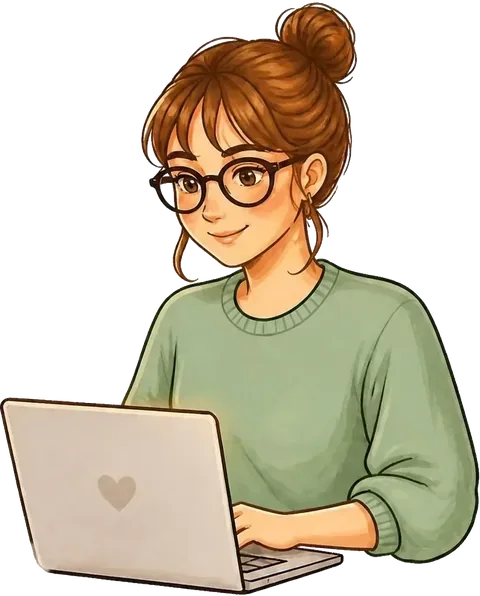
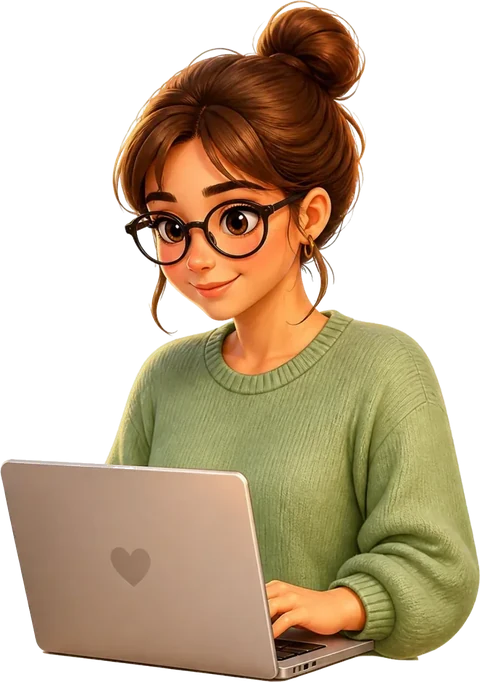
ilustraciones nuevas

diff --git a/index.html b/index.html
@@ -158,7 +158,7 @@ img{max-width:100%}
 <link rel="preload" href="/fonts/JetBrainsMono-latin.woff2" as="font" type="font/woff2" crossorigin>
 <link rel="preload" href="/fonts/BricolageGrotesque-latin.woff2" as="font" type="font/woff2" crossorigin>
 <style>@font-face { font-family: 'Bricolage Grotesque'; font-style: normal; font-weight: 400; font-stretch: 100%; font-display: swap; src: url(/fonts/BricolageGrotesque-latin-ext.woff2) format('woff2'); unicode-range: U+0100-02BA, U+02BD-02C5, U+02C7-02CC, U+02CE-02D7, U+02DD-02FF, U+0304, U+0308, U+0329, U+1D00-1DBF, U+1E00-1E9F, U+1EF2-1EFF, U+2020, U+20A0-20AB, U+20AD-20C0, U+2113, U+2C60-2C7F, U+A720-A7FF; } @font-face { font-family: 'Bricolage Grotesque'; font-style: normal; font-weight: 400; font-stretch: 100%; font-display: swap; src: url(/fonts/BricolageGrotesque-latin.woff2) format('woff2'); unicode-range: U+0000-00FF, U+0131, U+0152-0153, U+02BB-02BC, U+02C6, U+02DA, U+02DC, U+0304, U+0308, U+0329, U+2000-206F, U+20AC, U+2122, U+2191, U+2193, U+2212, U+2215, U+FEFF, U+FFFD; } @font-face { font-family: 'Bricolage Grotesque'; font-style: normal; font-weight: 600; font-stretch: 100%; font-display: swap; src: url(/fonts/BricolageGrotesque-latin-ext.woff2) format('woff2'); unicode-range: U+0100-02BA, U+02BD-02C5, U+02C7-02CC, U+02CE-02D7, U+02DD-02FF, U+0304, U+0308, U+0329, U+1D00-1DBF, U+1E00-1E9F, U+1EF2-1EFF, U+2020, U+20A0-20AB, U+20AD-20C0, U+2113, U+2C60-2C7F, U+A720-A7FF; } @font-face { font-family: 'Bricolage Grotesque'; font-style: normal; font-weight: 600; font-stretch: 100%; font-display: swap; src: url(/fonts/BricolageGrotesque-latin.woff2) format('woff2'); unicode-range: U+0000-00FF, U+0131, U+0152-0153, U+02BB-02BC, U+02C6, U+02DA, U+02DC, U+0304, U+0308, U+0329, U+2000-206F, U+20AC, U+2122, U+2191, U+2193, U+2212, U+2215, U+FEFF, U+FFFD; } @font-face { font-family: 'Bricolage Grotesque'; font-style: normal; font-weight: 800; font-stretch: 100%; font-display: swap; src: url(/fonts/BricolageGrotesque-latin-ext.woff2) format('woff2'); unicode-range: U+0100-02BA, U+02BD-02C5, U+02C7-02CC, U+02CE-02D7, U+02DD-02FF, U+0304, U+0308, U+0329, U+1D00-1DBF, U+1E00-1E9F, U+1EF2-1EFF, U+2020, U+20A0-20AB, U+20AD-20C0, U+2113, U+2C60-2C7F, U+A720-A7FF; } @font-face { font-family: 'Bricolage Grotesque'; font-style: normal; font-weight: 800; font-stretch: 100%; font-display: swap; src: url(/fonts/BricolageGrotesque-latin.woff2) format('woff2'); unicode-range: U+0000-00FF, U+0131, U+0152-0153, U+02BB-02BC, U+02C6, U+02DA, U+02DC, U+0304, U+0308, U+0329, U+2000-206F, U+20AC, U+2122, U+2191, U+2193, U+2212, U+2215, U+FEFF, U+FFFD; } @font-face { font-family: 'Figtree'; font-style: normal; font-weight: 400; font-display: swap; src: url(/fonts/Figtree-latin-ext.woff2) format('woff2'); unicode-range: U+0100-02BA, U+02BD-02C5, U+02C7-02CC, U+02CE-02D7, U+02DD-02FF, U+0304, U+0308, U+0329, U+1D00-1DBF, U+1E00-1E9F, U+1EF2-1EFF, U+2020, U+20A0-20AB, U+20AD-20C0, U+2113, U+2C60-2C7F, U+A720-A7FF; } @font-face { font-family: 'Figtree'; font-style: normal; font-weight: 400; font-display: swap; src: url(/fonts/Figtree-latin.woff2) format('woff2'); unicode-range: U+0000-00FF, U+0131, U+0152-0153, U+02BB-02BC, U+02C6, U+02DA, U+02DC, U+0304, U+0308, U+0329, U+2000-206F, U+20AC, U+2122, U+2191, U+2193, U+2212, U+2215, U+FEFF, U+FFFD; } @font-face { font-family: 'Figtree'; font-style: normal; font-weight: 500; font-display: swap; src: url(/fonts/Figtree-latin-ext.woff2) format('woff2'); unicode-range: U+0100-02BA, U+02BD-02C5, U+02C7-02CC, U+02CE-02D7, U+02DD-02FF, U+0304, U+0308, U+0329, U+1D00-1DBF, U+1E00-1E9F, U+1EF2-1EFF, U+2020, U+20A0-20AB, U+20AD-20C0, U+2113, U+2C60-2C7F, U+A720-A7FF; } @font-face { font-family: 'Figtree'; font-style: normal; font-weight: 500; font-display: swap; src: url(/fonts/Figtree-latin.woff2) format('woff2'); unicode-range: U+0000-00FF, U+0131, U+0152-0153, U+02BB-02BC, U+02C6, U+02DA, U+02DC, U+0304, U+0308, U+0329, U+2000-206F, U+20AC, U+2122, U+2191, U+2193, U+2212, U+2215, U+FEFF, U+FFFD; } @font-face { font-family: 'Figtree'; font-style: normal; font-weight: 600; font-display: swap; src: url(/fonts/Figtree-latin-ext.woff2) format('woff2'); unicode-range: U+0100-02BA, U+02BD-02C5, U+02C7-02CC, U+02CE-02D7, U+02DD-02FF, U+0304, U+0308, U+0329, U+1D00-1DBF, U+1E00-1E9F, U+1EF2-1EFF, U+2020, U+20A0-20AB, U+20AD-20C0, U+2113, U+2C60-2C7F, U+A720-A7FF; } @font-face { font-family: 'Figtree'; font-style: normal; font-weight: 600; font-display: swap; src: url(/fonts/Figtree-latin.woff2) format('woff2'); unicode-range: U+0000-00FF, U+0131, U+0152-0153, U+02BB-02BC, U+02C6, U+02DA, U+02DC, U+0304, U+0308, U+0329, U+2000-206F, U+20AC, U+2122, U+2191, U+2193, U+2212, U+2215, U+FEFF, U+FFFD; } @font-face { font-family: 'JetBrains Mono'; font-style: normal; font-weight: 400; font-display: swap; src: url(/fonts/JetBrainsMono-latin-ext.woff2) format('woff2'); unicode-range: U+0100-02BA, U+02BD-02C5, U+02C7-02CC, U+02CE-02D7, U+02DD-02FF, U+0304, U+0308, U+0329, U+1D00-1DBF, U+1E00-1E9F, U+1EF2-1EFF, U+2020, U+20A0-20AB, U+20AD-20C0, U+2113, U+2C60-2C7F, U+A720-A7FF; } @font-face { font-family: 'JetBrains Mono'; font-style: normal; font-weight: 400; font-display: swap; src: url(/fonts/JetBrainsMono-latin.woff2) format('woff2'); unicode-range: U+0000-00FF, U+0131, U+0152-0153, U+02BB-02BC, U+02C6, U+02DA, U+02DC, U+0304, U+0308, U+0329, U+2000-206F, U+20AC, U+2122, U+2191, U+2193, U+2212, U+2215, U+FEFF, U+FFFD; } @font-face { font-family: 'JetBrains Mono'; font-style: normal; font-weight: 500; font-display: swap; src: url(/fonts/JetBrainsMono-latin-ext.woff2) format('woff2'); unicode-range: U+0100-02BA, U+02BD-02C5, U+02C7-02CC, U+02CE-02D7, U+02DD-02FF, U+0304, U+0308, U+0329, U+1D00-1DBF, U+1E00-1E9F, U+1EF2-1EFF, U+2020, U+20A0-20AB, U+20AD-20C0, U+2113, U+2C60-2C7F, U+A720-A7FF; } @font-face { font-family: 'JetBrains Mono'; font-style: normal; font-weight: 500; font-display: swap; src: url(/fonts/JetBrainsMono-latin.woff2) format('woff2'); unicode-range: U+0000-00FF, U+0131, U+0152-0153, U+02BB-02BC, U+02C6, U+02DA, U+02DC, U+0304, U+0308, U+0329, U+2000-206F, U+20AC, U+2122, U+2191, U+2193, U+2212, U+2215, U+FEFF, U+FFFD; } @font-face { font-family: 'Space Mono'; font-style: normal; font-weight: 400; font-display: swap; src: url(/fonts/SpaceMono-400-latin-ext.woff2) format('woff2'); unicode-range: U+0100-02BA, U+02BD-02C5, U+02C7-02CC, U+02CE-02D7, U+02DD-02FF, U+0304, U+0308, U+0329, U+1D00-1DBF, U+1E00-1E9F, U+1EF2-1EFF, U+2020, U+20A0-20AB, U+20AD-20C0, U+2113, U+2C60-2C7F, U+A720-A7FF; } @font-face { font-family: 'Space Mono'; font-style: normal; font-weight: 400; font-display: swap; src: url(/fonts/SpaceMono-400-latin.woff2) format('woff2'); unicode-range: U+0000-00FF, U+0131, U+0152-0153, U+02BB-02BC, U+02C6, U+02DA, U+02DC, U+0304, U+0308, U+0329, U+2000-206F, U+20AC, U+2122, U+2191, U+2193, U+2212, U+2215, U+FEFF, U+FFFD; } @font-face { font-family: 'Space Mono'; font-style: normal; font-weight: 700; font-display: swap; src: url(/fonts/SpaceMono-700-latin-ext.woff2) format('woff2'); unicode-range: U+0100-02BA, U+02BD-02C5, U+02C7-02CC, U+02CE-02D7, U+02DD-02FF, U+0304, U+0308, U+0329, U+1D00-1DBF, U+1E00-1E9F, U+1EF2-1EFF, U+2020, U+20A0-20AB, U+20AD-20C0, U+2113, U+2C60-2C7F, U+A720-A7FF; } @font-face { font-family: 'Space Mono'; font-style: normal; font-weight: 700; font-display: swap; src: url(/fonts/SpaceMono-700-latin.woff2) format('woff2'); unicode-range: U+0000-00FF, U+0131, U+0152-0153, U+02BB-02BC, U+02C6, U+02DA, U+02DC, U+0304, U+0308, U+0329, U+2000-206F, U+20AC, U+2122, U+2191, U+2193, U+2212, U+2215, U+FEFF, U+FFFD; }</style>
-<link rel="preload" as="image" href="/img/chica-portatil.webp" imagesrcset="/img/chica-portatil-480.webp 480w, /img/chica-portatil.webp 820w" imagesizes="(max-width:900px) 280px, 420px" fetchpriority="high">
+<link rel="preload" as="image" href="/img/chica-portatil.webp" imagesrcset="/img/chica-portatil-480.webp 480w, /img/chica-portatil.webp 662w" imagesizes="(max-width:900px) 280px, 420px" fetchpriority="high">
 <style>
 :root{
   --bg:#F7F2EB; --surface:#FFFDFA; --ink:#43352C; --muted:#7A6455; --line:#E8DDD0; --hire:#4A6644; --muted-on-sage:#5E4A3C; --deep-on-sage:#4A6644;
@@ -645,7 +645,7 @@ footer{border-top:0; background:var(--sage); box-shadow:0 0 0 100vmax var(--sage
       </div>
     </div>
 
-    <img class="hero-chica" src="/img/chica-portatil.webp" srcset="/img/chica-portatil-480.webp 480w, /img/chica-portatil.webp 820w" sizes="(max-width:900px) 280px, 420px" fetchpriority="high" alt="Ilustración de Claudia programando con su portátil" width="820" height="1019">
+    <img class="hero-chica" src="/img/chica-portatil.webp" srcset="/img/chica-portatil-480.webp 480w, /img/chica-portatil.webp 662w" sizes="(max-width:900px) 280px, 420px" fetchpriority="high" alt="Ilustración de Claudia programando con su portátil" width="662" height="941">
   </header>
 
   <section id="servicios">
@@ -902,7 +902,7 @@ async function opinionesBooksy() {
 
   <section class="contact" id="contacto">
     <div>
-      <img class="contact-logo" src="/img/chica-senalando.webp" alt="Ilustración de Claudia señalando el formulario de contacto" width="700" height="750" loading="lazy">
+      <img class="contact-logo" src="/img/chica-senalando.webp" alt="Ilustración de Claudia señalando el formulario de contacto" width="798" height="937" loading="lazy">
       <h2>¿Hacemos tu web?</h2>
       <p>Escríbeme contándome a qué se dedica tu negocio y qué te gustaría tener. Te respondo en menos de 24 horas con una propuesta.</p>
     </div>

diff --git a/diseno-web-peluquerias.html b/diseno-web-peluquerias.html
@@ -138,7 +138,7 @@
     <p class="lead">Diseño webs para salones de belleza de Pamplona y Navarra que reservan, venden tarjetas regalo y enseñan tus mejores trabajos. Como la de Laksmir Beauty Salon.</p>
     <div class="ctas"><a class="btn dark" href="https://wa.me/34655397379?text=Hola%20Claudia%2C%20he%20visto%20tu%20p%C3%A1gina%20de%20webs%20para%20peluquer%C3%ADas%20y%20est%C3%A9tica%20y%20me%20gustar%C3%ADa%20pedir%20presupuesto." target="_blank" rel="noopener">Pide tu presupuesto por WhatsApp</a><a class="btn ghost" href="/#proyecto">Ver proyecto real</a></div>
   </div>
-  <img class="hero-img" src="/img/chica-portatil.webp" srcset="/img/chica-portatil-480.webp 480w, /img/chica-portatil.webp 820w" sizes="(max-width:860px) 240px, 360px" alt="Ilustración de Claudia diseñando la web de una peluquería en su portátil" width="820" height="1019" fetchpriority="high">
+  <img class="hero-img" src="/img/chica-portatil.webp" srcset="/img/chica-portatil-480.webp 480w, /img/chica-portatil.webp 662w" sizes="(max-width:860px) 240px, 360px" alt="Ilustración de Claudia diseñando la web de una peluquería en su portátil" width="662" height="941" fetchpriority="high">
 </section>
 
 <section class="band">
@@ -179,7 +179,7 @@
   <details><summary>¿Puedo seguir usando Booksy?</summary><p>Sí. Tu web enlaza cada servicio con su cita en Booksy, así sigues gestionando tu agenda como siempre. Si usas otro sistema de reservas, también se puede conectar.</p></details><details><summary>¿Puedo vender tarjetas regalo desde la web?</summary><p>Sí. Tus clientas eligen un importe o un servicio, lo pagan online y reciben la tarjeta para regalar. Es ideal para Navidad, San Valentín y el Día de la Madre.</p></details><details><summary>¿Podré cambiar los precios y las fotos sin ayuda?</summary><p>Sí. Te preparo un panel sencillo para cambiar servicios, precios, fotos de la galería y entradas del blog, y te enseño a usarlo.</p></details><details><summary>¿Salen mis reseñas de Google y de Booksy?</summary><p>Sí. Tu nota y tu número de opiniones aparecen en la web y se actualizan solos cada día.</p></details><details><summary>¿Cuánto cuesta la web de una peluquería?</summary><p>Depende de lo que necesites: una web sencilla o una con reservas y panel de gestión, que es lo que elige la mayoría de salones. Tras una primera charla gratuita te doy un presupuesto cerrado y sin compromiso.</p></details>
 </section>
 <section class="cta">
-  <img src="/img/chica-senalando.webp" alt="" width="700" height="750" loading="lazy">
+  <img src="/img/chica-senalando.webp" alt="" width="798" height="937" loading="lazy">
   <div>
     <h2>¿Hablamos de tu web?</h2>
     <p>Cuéntame qué hace tu negocio y qué necesitas. La primera charla es gratis y sin compromiso.</p>

diff --git a/diseno-web-pamplona.html b/diseno-web-pamplona.html
@@ -134,7 +134,7 @@
     <p class="lead">Soy Claudia, diseñadora y desarrolladora web en Burlada. Creo páginas web a medida para negocios de Pamplona y alrededores: rápidas, bonitas en el móvil y preparadas para que te encuentren en Google.</p>
     <div class="ctas"><a class="btn dark" href="https://wa.me/34655397379?text=Hola%20Claudia%2C%20he%20visto%20tu%20p%C3%A1gina%20de%20dise%C3%B1o%20web%20en%20pamplona%20y%20me%20gustar%C3%ADa%20pedir%20presupuesto." target="_blank" rel="noopener">Pide tu presupuesto por WhatsApp</a><a class="btn ghost" href="/#proyecto">Ver proyecto real</a></div>
   </div>
-  <img class="hero-img" src="/img/chica-portatil.webp" srcset="/img/chica-portatil-480.webp 480w, /img/chica-portatil.webp 820w" sizes="(max-width:860px) 240px, 360px" alt="Ilustración de Claudia, diseñadora web en Pamplona, trabajando con su portátil" width="820" height="1019" fetchpriority="high">
+  <img class="hero-img" src="/img/chica-portatil.webp" srcset="/img/chica-portatil-480.webp 480w, /img/chica-portatil.webp 662w" sizes="(max-width:860px) 240px, 360px" alt="Ilustración de Claudia, diseñadora web en Pamplona, trabajando con su portátil" width="662" height="941" fetchpriority="high">
 </section>
 
 <section class="band">
@@ -174,7 +174,7 @@
   <details><summary>¿Nos podemos ver en persona?</summary><p>Sí. Estoy en Burlada y me desplazo a Pamplona y alrededores para la primera reunión o cuando haga falta. Si lo prefieres, también podemos hacerlo todo por videollamada.</p></details><details><summary>¿Cuánto cuesta una página web en Pamplona?</summary><p>Depende de lo que necesites: una web esencial, una web con reservas y panel de gestión o una tienda online. Tras una primera charla gratuita te doy un presupuesto cerrado y sin compromiso.</p></details><details><summary>¿Me ayudas a salir en Google y en Google Maps?</summary><p>Sí. Preparo la web para el SEO local de Pamplona y Navarra y te ayudo a configurar tu Perfil de Empresa en Google para que aparezcas en el mapa.</p></details><details><summary>¿Trabajas con negocios fuera de Pamplona?</summary><p>Sí, con negocios de toda Navarra y de cualquier parte de España. Fuera de la comarca trabajamos por videollamada.</p></details><details><summary>¿Cuánto tarda en estar lista mi web?</summary><p>Una web esencial suele estar en 2 o 3 semanas. Una tienda online, entre 4 y 6, según el número de productos.</p></details>
 </section>
 <section class="cta">
-  <img src="/img/chica-senalando.webp" alt="" width="700" height="750" loading="lazy">
+  <img src="/img/chica-senalando.webp" alt="" width="798" height="937" loading="lazy">
   <div>
     <h2>¿Hablamos de tu web?</h2>
     <p>Cuéntame qué hace tu negocio y qué necesitas. La primera charla es gratis y sin compromiso.</p>

diff --git a/tiendas-online-navarra.html b/tiendas-online-navarra.html
@@ -134,7 +134,7 @@
     <p class="lead">Vende tus productos, bonos y tarjetas regalo desde tu propia web, con pago seguro y un panel sencillo para gestionar pedidos. Sin plantillas genéricas y sin cuotas de plataforma.</p>
     <div class="ctas"><a class="btn dark" href="https://wa.me/34655397379?text=Hola%20Claudia%2C%20he%20visto%20tu%20p%C3%A1gina%20de%20tiendas%20online%20en%20navarra%20y%20me%20gustar%C3%ADa%20pedir%20presupuesto." target="_blank" rel="noopener">Pide tu presupuesto por WhatsApp</a><a class="btn ghost" href="/#proyecto">Ver proyecto real</a></div>
   </div>
-  <img class="hero-img" src="/img/chica-portatil.webp" srcset="/img/chica-portatil-480.webp 480w, /img/chica-portatil.webp 820w" sizes="(max-width:860px) 240px, 360px" alt="Ilustración de Claudia creando una tienda online en su portátil" width="820" height="1019" fetchpriority="high">
+  <img class="hero-img" src="/img/chica-portatil.webp" srcset="/img/chica-portatil-480.webp 480w, /img/chica-portatil.webp 662w" sizes="(max-width:860px) 240px, 360px" alt="Ilustración de Claudia creando una tienda online en su portátil" width="662" height="941" fetchpriority="high">
 </section>
 
 <section class="band">
@@ -173,7 +173,7 @@
   <details><summary>¿Qué formas de pago puede tener mi tienda?</summary><p>Pago con tarjeta mediante una pasarela segura (como Stripe o la de tu banco). Si tu banco lo ofrece, también se puede añadir Bizum.</p></details><details><summary>¿Podré añadir productos y ver los pedidos sin ayuda?</summary><p>Sí. Desde el panel añades y editas productos, cambias precios y revisas los pedidos, sin tocar código.</p></details><details><summary>¿Cuánto cuesta mantener una tienda online?</summary><p>El alojamiento y el dominio, que suelen ser unos pocos euros al mes, y la comisión de la pasarela de pago por cada venta. Si quieres, también puedo encargarme del mantenimiento con una cuota mensual opcional.</p></details><details><summary>Ya vendo por Instagram, ¿me sirve una tienda online?</summary><p>Sí. Instagram te da visibilidad y la tienda cierra la venta: tus seguidores compran con un clic desde tu perfil, sin mensajes ni transferencias.</p></details><details><summary>¿Cuánto tarda en estar lista?</summary><p>Entre 4 y 6 semanas, según el número de productos y lo rápido que tengamos fotos y textos.</p></details>
 </section>
 <section class="cta">
-  <img src="/img/chica-senalando.webp" alt="" width="700" height="750" loading="lazy">
+  <img src="/img/chica-senalando.webp" alt="" width="798" height="937" loading="lazy">
   <div>
     <h2>¿Hablamos de tu web?</h2>
     <p>Cuéntame qué hace tu negocio y qué necesitas. La primera charla es gratis y sin compromiso.</p>

diff --git a/blog/cuanto-cuesta-una-pagina-web-en-pamplona.html b/blog/cuanto-cuesta-una-pagina-web-en-pamplona.html
@@ -193,13 +193,13 @@
 <details><summary>¿Cuánto cuesta una web sencilla para un negocio en Pamplona?</summary><p>Con una profesional freelance, una web sencilla de unas 5 páginas suele costar entre 400 y 1.200 € + IVA. Con una agencia, lo habitual es que empiece por encima de los 1.500 €.</p></details><details><summary>¿Cuánto cuesta una tienda online?</summary><p>Una tienda online a medida suele moverse entre 1.500 y 6.000 €, según el número de productos, los métodos de pago y los envíos. A eso hay que sumar el alojamiento y la comisión de la pasarela de pago.</p></details><details><summary>¿Qué gastos tiene una web después de publicarla?</summary><p>El dominio (unos 10–20 € al año), el alojamiento (de 0 a 20 € al mes según la web) y, si lo contratas, el mantenimiento (de 30 a 100 € al mes).</p></details><details><summary>¿Es mejor Wix o una web a medida?</summary><p>Wix o Squarespace son una buena opción si quieres hacerla tú y no te importa la cuota mensual. Una web a medida tiene un diseño único, carga más rápido y no depende de una plataforma, pero tiene un coste inicial mayor.</p></details>
 
 <div class="author">
-  <img src="/img/chica-portatil.webp" srcset="/img/chica-portatil-480.webp 480w, /img/chica-portatil.webp 820w" sizes="64px" alt="" width="820" height="1019" loading="lazy">
+  <img src="/img/chica-portatil.webp" srcset="/img/chica-portatil-480.webp 480w, /img/chica-portatil.webp 662w" sizes="64px" alt="" width="662" height="941" loading="lazy">
   <div><strong>Claudia Ibáñez</strong><p>Frontend developer en Burlada (Navarra). Diseño y programo webs a medida para negocios de Pamplona y toda Navarra.</p></div>
 </div>
 </article>
 
 <section class="cta">
-  <img src="/img/chica-senalando.webp" alt="" width="700" height="750" loading="lazy">
+  <img src="/img/chica-senalando.webp" alt="" width="798" height="937" loading="lazy">
   <div>
     <h2>¿Quieres saber cuánto costaría la tuya?</h2>
     <p>Cuéntame qué necesitas y te preparo un presupuesto cerrado y sin compromiso.</p>

diff --git a/blog/kit-digital-navarra-2026.html b/blog/kit-digital-navarra-2026.html
@@ -165,12 +165,12 @@
 <h2>Preguntas frecuentes</h2>
 <details><summary>¿Puedo pedir el Kit Digital en 2026?</summary><p>No. Las convocatorias del Kit Digital han finalizado y, a día de hoy, no hay ninguna nueva anunciada. Si se abriera otra, se publicaría en acelerapyme.gob.es.</p></details><details><summary>¿Qué ayudas hay en Navarra para digitalizar mi negocio?</summary><p>En 2026 está abierta la convocatoria de ayudas para el fomento de la empresa digital del Gobierno de Navarra, con plazo hasta el 6 de noviembre de 2026 y un gasto mínimo de 5.000 € para proyectos de implantación de soluciones digitales.</p></details><details><summary>¿Pueden pedir estas ayudas los autónomos?</summary><p>Sí. Las ayudas de fomento de la empresa digital de Navarra incluyen a autónomos con establecimiento en Navarra y de alta en el IAE.</p></details><details><summary>¿Me pagan la web entera?</summary><p>No. Las ayudas de Navarra cubren un porcentaje del gasto (entre el 35 % y el 45 % en los proyectos de implantación) y exigen un gasto mínimo. El resto lo paga el negocio.</p></details>
 <div class="author">
-  <img src="/img/chica-portatil.webp" srcset="/img/chica-portatil-480.webp 480w, /img/chica-portatil.webp 820w" sizes="64px" alt="" width="820" height="1019" loading="lazy">
+  <img src="/img/chica-portatil.webp" srcset="/img/chica-portatil-480.webp 480w, /img/chica-portatil.webp 662w" sizes="64px" alt="" width="662" height="941" loading="lazy">
   <div><strong>Claudia Ibáñez</strong><p>Frontend developer en Burlada (Navarra). Diseño y programo webs a medida para negocios de Pamplona y toda Navarra.</p></div>
 </div>
 </article>
 <section class="cta">
-  <img src="/img/chica-senalando.webp" alt="" width="700" height="750" loading="lazy">
+  <img src="/img/chica-senalando.webp" alt="" width="798" height="937" loading="lazy">
   <div>
     <h2>¿Quieres saber si tu proyecto encaja?</h2>
     <p>Cuéntame qué necesitas y te ayudo a ver las opciones, con ayuda o sin ella.</p>

diff --git a/blog/como-aparecer-en-google-maps-pamplona.html b/blog/como-aparecer-en-google-maps-pamplona.html
@@ -181,12 +181,12 @@
 <h2>Preguntas frecuentes</h2>
 <details><summary>¿Cuánto cuesta aparecer en Google Maps?</summary><p>Nada. El Perfil de Empresa en Google es gratuito. Lo que sí cuesta tiempo es completarlo bien y conseguir reseñas.</p></details><details><summary>¿Puedo aparecer en Google Maps sin local?</summary><p>Sí. Al crear el perfil, indica que no tienes un local que puedan visitar los clientes y define tu zona de servicio. Tu dirección no se mostrará.</p></details><details><summary>¿Cuánto tarda en aparecer mi negocio?</summary><p>Después de verificarlo, normalmente unos días. Subir posiciones lleva más tiempo y depende sobre todo de las reseñas y de lo completo que esté el perfil.</p></details><details><summary>¿Cómo salgo primero en Google Maps en Pamplona?</summary><p>No hay trucos: categoría correcta, perfil completo, muchas reseñas reales y respondidas, datos iguales en todas partes y una web enlazada. Y estar cerca de quien busca, que eso no depende de ti.</p></details>
 <div class="author">
-  <img src="/img/chica-portatil.webp" srcset="/img/chica-portatil-480.webp 480w, /img/chica-portatil.webp 820w" sizes="64px" alt="" width="820" height="1019" loading="lazy">
+  <img src="/img/chica-portatil.webp" srcset="/img/chica-portatil-480.webp 480w, /img/chica-portatil.webp 662w" sizes="64px" alt="" width="662" height="941" loading="lazy">
   <div><strong>Claudia Ibáñez</strong><p>Frontend developer en Burlada (Navarra). Diseño y programo webs a medida para negocios de Pamplona y toda Navarra.</p></div>
 </div>
 </article>
 <section class="cta">
-  <img src="/img/chica-senalando.webp" alt="" width="700" height="750" loading="lazy">
+  <img src="/img/chica-senalando.webp" alt="" width="798" height="937" loading="lazy">
   <div>
     <h2>¿Te ayudo con tu web y tu ficha de Google?</h2>
     <p>Te preparo una web pensada para que te encuentren en Pamplona y te ayudo a completar tu Perfil de Empresa.</p>

diff --git a/blog/que-es-una-landing-page.html b/blog/que-es-una-landing-page.html
@@ -176,12 +176,12 @@
 <h2>Preguntas frecuentes</h2>
 <details><summary>¿Una landing page es lo mismo que una página web?</summary><p>No. Tu web presenta todo tu negocio. Una landing es una página aparte, pensada para una campaña o un servicio concreto, con un único objetivo.</p></details><details><summary>¿Puedo tener una landing page sin tener web?</summary><p>Sí. Una landing funciona por sí sola, aunque lo ideal es que con el tiempo tengas también una web completa con todos tus servicios.</p></details><details><summary>¿Necesito una landing distinta para cada anuncio?</summary><p>Lo recomendable es una por servicio o por campaña. Si varios anuncios hablan de lo mismo, pueden llevar a la misma landing.</p></details><details><summary>¿Sirven para anuncios de Instagram y Facebook?</summary><p>Sí. Funcionan igual con anuncios de Google, Instagram, Facebook o TikTok: cualquier anuncio que lleve a un enlace mejora si ese enlace es una página pensada para él.</p></details>
 <div class="author">
-  <img src="/img/chica-portatil.webp" srcset="/img/chica-portatil-480.webp 480w, /img/chica-portatil.webp 820w" sizes="64px" alt="" width="820" height="1019" loading="lazy">
+  <img src="/img/chica-portatil.webp" srcset="/img/chica-portatil-480.webp 480w, /img/chica-portatil.webp 662w" sizes="64px" alt="" width="662" height="941" loading="lazy">
   <div><strong>Claudia Ibáñez</strong><p>Frontend developer en Burlada (Navarra). Diseño y programo webs a medida para negocios de Pamplona y toda Navarra.</p></div>
 </div>
 </article>
 <section class="cta">
-  <img src="/img/chica-senalando.webp" alt="" width="700" height="750" loading="lazy">
+  <img src="/img/chica-senalando.webp" alt="" width="798" height="937" loading="lazy">
   <div>
     <h2>¿Preparamos tu campaña?</h2>
     <p>Te hago la landing, te ayudo con los anuncios y lo conectamos con tus redes para que todo cuente lo mismo.</p>

diff --git a/404.html b/404.html
@@ -30,7 +30,7 @@
 </header>
 <main>
 <section class="notfound" style="border-top:0">
-  <img src="/img/chica-pensando.webp" alt="Ilustración de Claudia pensativa" width="420" height="1542">
+  <img src="/img/chica-pensando.webp" alt="Ilustración de Claudia pensativa" width="522" height="950">
   <div>
     <div class="code">ERROR 404</div>
     <h1>Esta página <em>no existe</em></h1>
